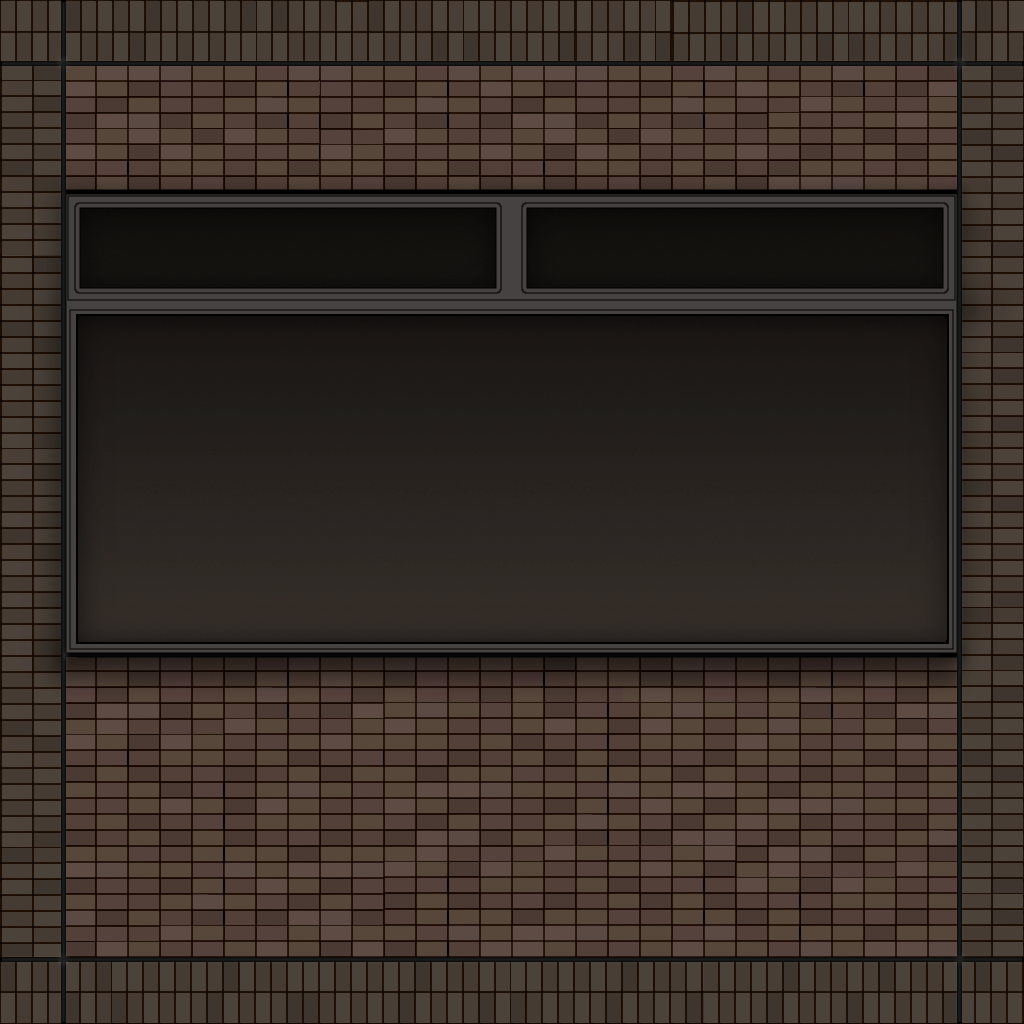
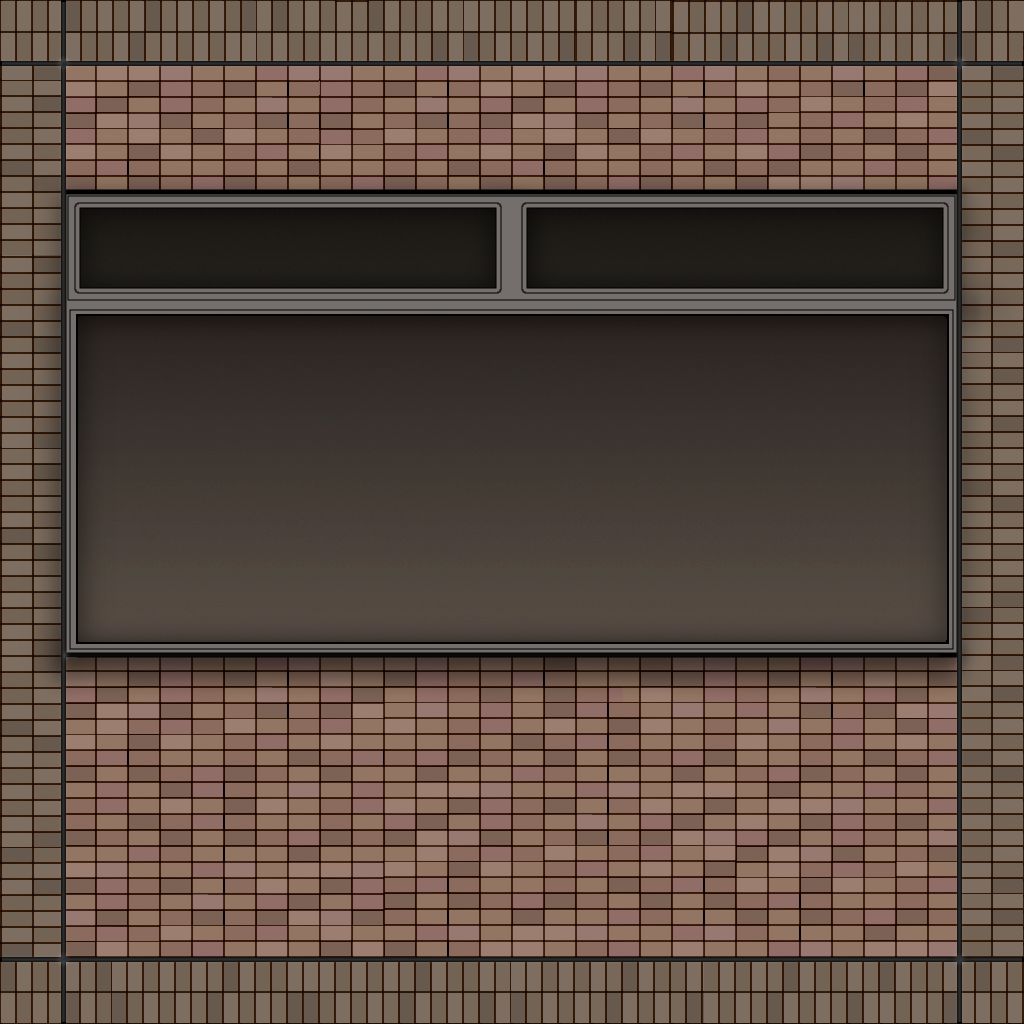
MusicGamePrototypeScene 用ビルのテクスチャファイル名を整理。光源の角度を調整。

diff --git a/source/blue_sky/graphics/GraphicsManager.cpp b/source/blue_sky/graphics/GraphicsManager.cpp
@@ -476,7 +476,7 @@ void GraphicsManager::setup_rendering()
 	get_frame_render_data()->data().projection = Matrix().set_perspective_fov( math::degree_to_radian( camera_component->fov ), aspect, camera_component->near_clip, camera_component->far_clip );
 	
 	/// @todo ちゃんとやる ( ECS 化？ set_light_info() ? )
-	get_frame_render_data()->data().light = Vector( -1.f, -2.f, 0.f, 0.f ).normalize();
+	get_frame_render_data()->data().light = Vector( -1.f, -2.f, 0.5f, 0.f ).normalize();
 
 	/// @todo ここでやるべき？
 	get_frame_render_data()->data().time = GameMain::get_instance()->get_current_scene()->get_total_elapsed_time();
